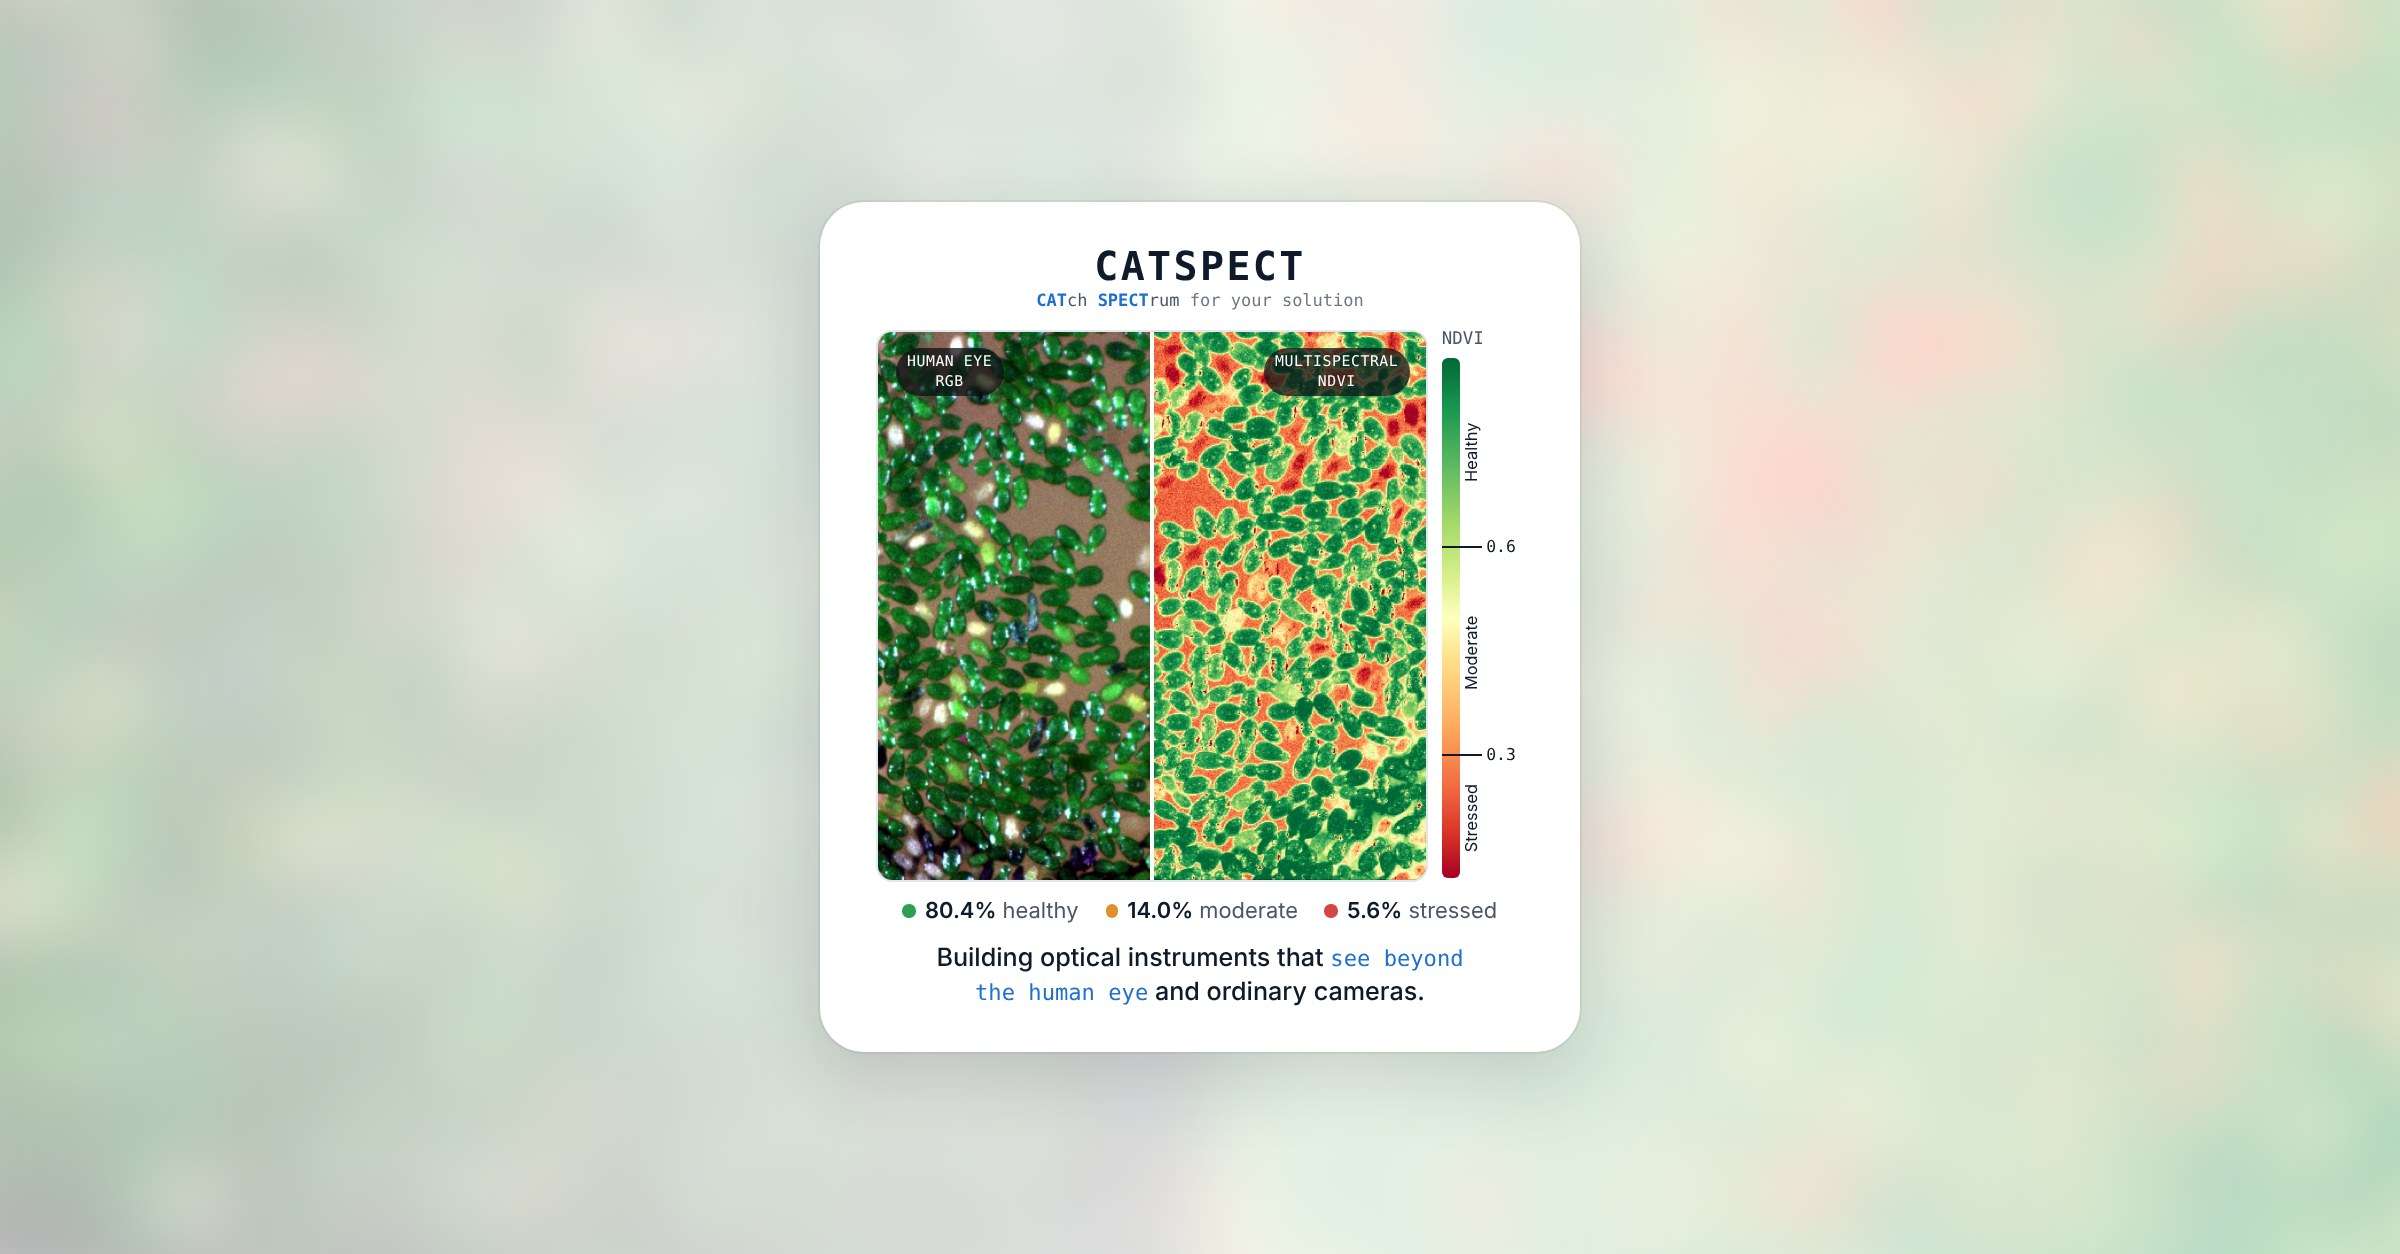
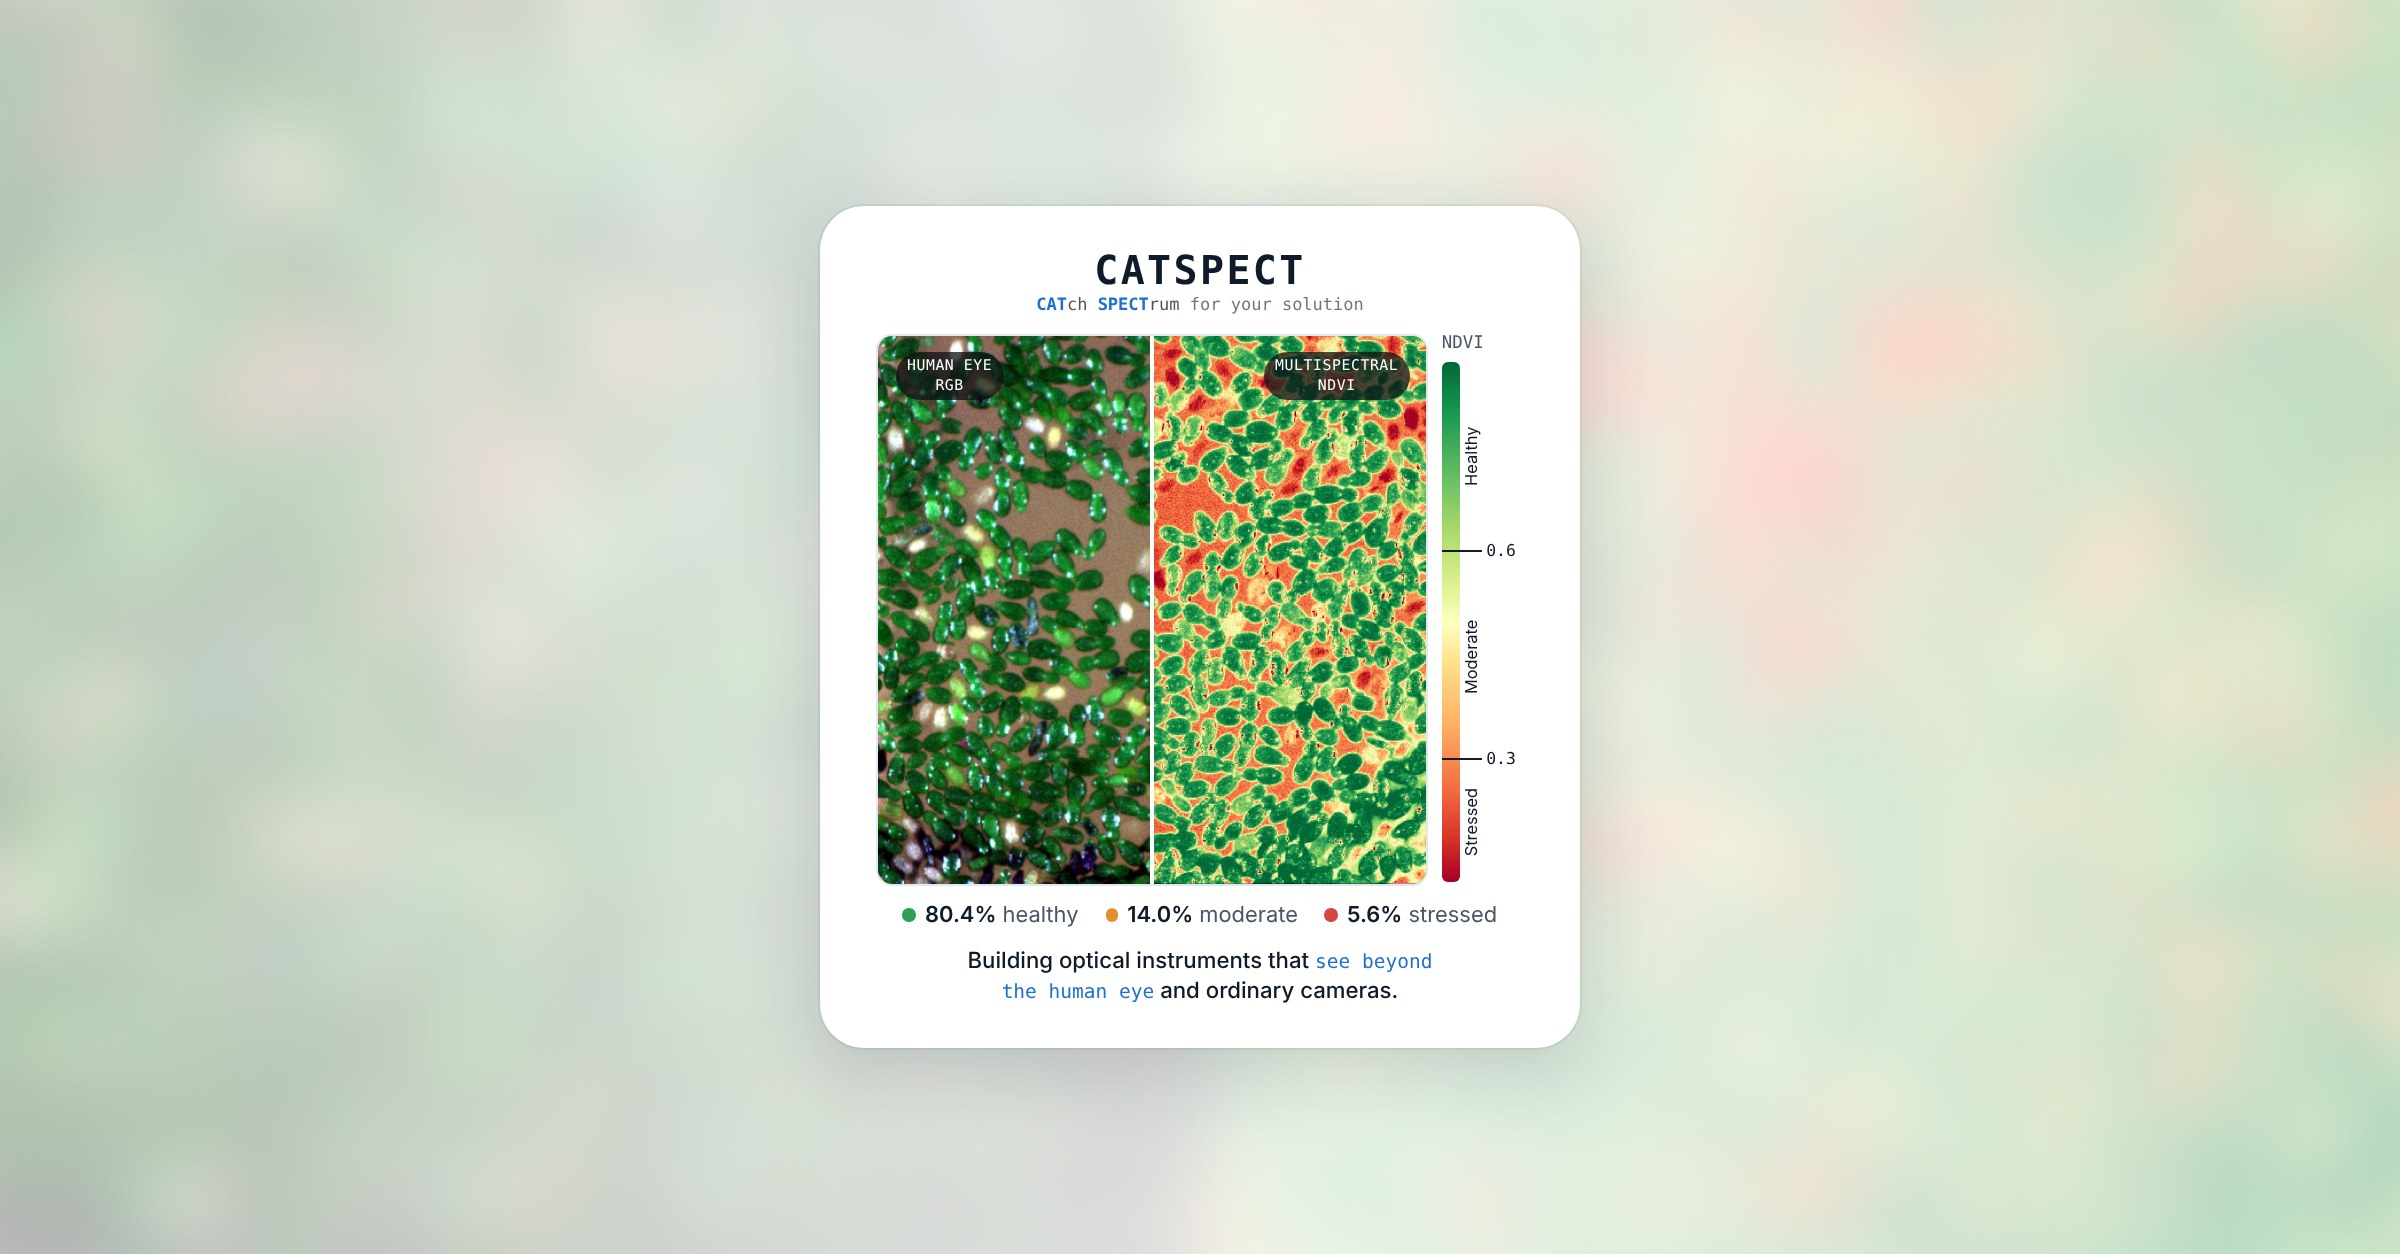
Thumbnail: slightly smaller headline
Claude-Session: https://claude.ai/code/session_01VUU84amyiqJF3KbMs5nbfS

Changed region(s): [[0.3438, 0.1555, 0.6562, 0.8397]]

diff --git a/index.html b/index.html
@@ -12,12 +12,12 @@
 <meta property="og:title" content="CATSPECT: CATch SPECTrum for your solution">
 <meta property="og:description" content="A small team of physics lecturers building optical instruments that see beyond the human eye, from a 3D-printed prototype to a real-time plant-health imager.">
 <meta property="og:url" content="https://plugnawapong.github.io/catspect/">
-<meta property="og:image" content="https://plugnawapong.github.io/catspect/assets/og-image.jpg?v=9">
+<meta property="og:image" content="https://plugnawapong.github.io/catspect/assets/og-image.jpg?v=10">
 <meta property="og:image:width" content="2400">
 <meta property="og:image:height" content="1254">
 <meta property="og:image:alt" content="CATSPECT: a human-eye vs multispectral NDVI view of duckweed">
 <meta name="twitter:card" content="summary_large_image">
-<meta name="twitter:image" content="https://plugnawapong.github.io/catspect/assets/og-image.jpg?v=9">
+<meta name="twitter:image" content="https://plugnawapong.github.io/catspect/assets/og-image.jpg?v=10">
 <script>(function(){var t="sky";try{var v=localStorage.getItem("catspect-theme");if(v==="graphite"||v==="sky")t=v;}catch(e){}document.documentElement.setAttribute("data-style",t);})();</script>
 <link rel="preconnect" href="https://fonts.googleapis.com">
 <link rel="preconnect" href="https://fonts.gstatic.com" crossorigin>
